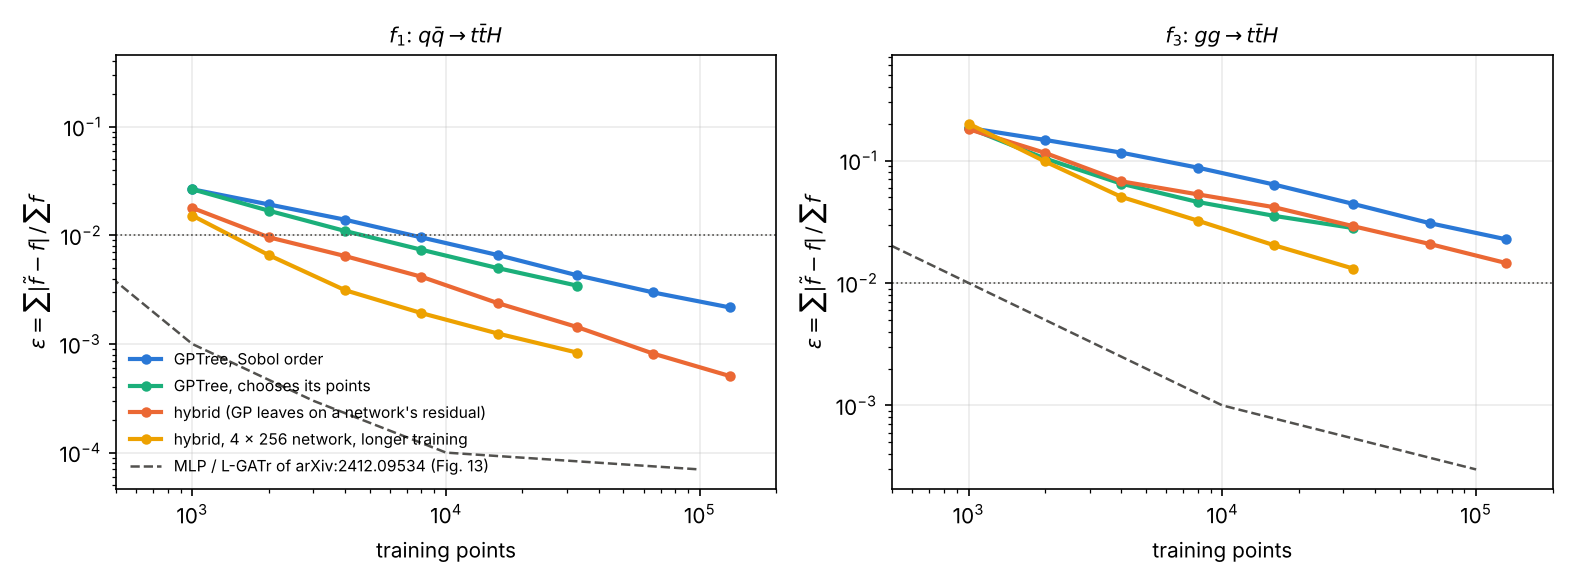
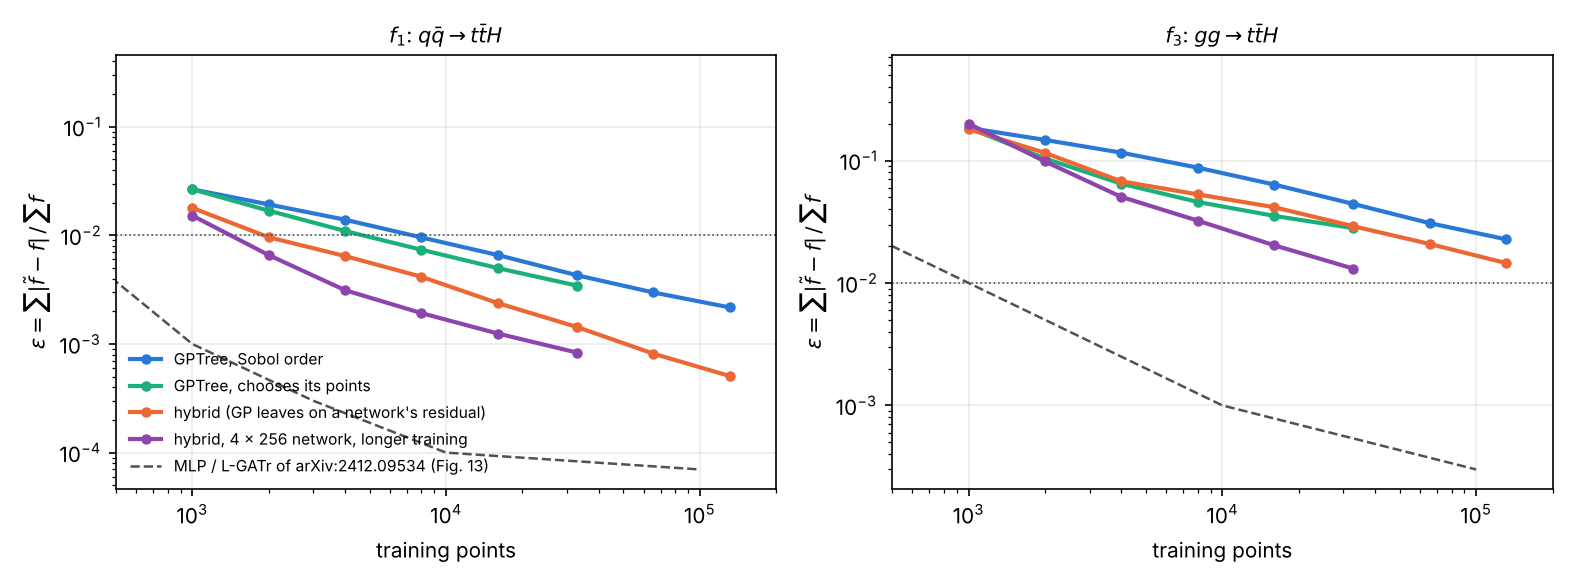
Results: Nbar 1000 draft subsection, series in the improved figure
Claude-Session: https://claude.ai/code/session_0153hpVKJ5JPDq5CRhfaL7QL

diff --git a/examples/plot_tth_results.py b/examples/plot_tth_results.py
@@ -21,7 +21,7 @@ NAMES = {"uu": r"$f_1$: $q\bar q \to t\bar t H$", "gg": r"$f_3$: $gg \to t\bar t
 # MLP and L-GATr of arXiv:2412.09534, Figure 13, read off the plot (uniform test sampling)
 REFERENCE = {"uu": [(10, 0.3), (100, 0.03), (300, 0.01), (1000, 1e-3), (3000, 3e-4), (1e4, 1e-4), (1e5, 7e-5)],
              "gg": [(10, 0.5), (100, 0.1), (1000, 1e-2), (1e4, 1e-3), (1e5, 3e-4)]}
-COLORS = ["#2a78d6", "#1baf7a", "#eb6834", "#eda100"]
+COLORS = ["#2a78d6", "#1baf7a", "#eb6834", "#8e44ad", "#eda100"]
 
 # (file tag, key suffix, label) per series; {ch} is the channel
 FIGURES = {
@@ -35,6 +35,7 @@ FIGURES = {
         ("sweep_finalTreeSobol_{ch}", "tree", "GPTree on log invariants, RBF leaves, Sobol"),
         ("sweep_finalTreeMix_{ch}", "tree", "same, half the points drawn with probability ~ f"),
         ("sweep_finalTreeMix300_{ch}", "tree", "same, 300-point leaves"),
+        ("sweep_nbar1000split_{ch}", "tree", "same, 1000-point leaves, refit only at splits"),
         ("sweep_finalHybMixBig_{ch}", "hybrid", "hybrid on log invariants, half the points ~ f, 4 x 256 network"),
     ],
 }

diff --git a/examples/BENCHMARK_RESULTS_tth_amplitude.md b/examples/BENCHMARK_RESULTS_tth_amplitude.md
@@ -278,6 +278,44 @@ Reading:
   (4.4e-3 against 1.4e-2 at 4000). RBF leaves inside the hybrid give 2 × on f1
   (2.9e-4 against 5.9e-4 at 16 000) and nothing on f3.
 
+### 1000-point leaves, refit only at splits
+
+`--nbar 1000 --retrain 1000000000` with gradual splitting: a leaf's hyperparameters
+are fitted once, when it fills and splits, and its children inherit them; between
+splits new points enter a leaf's kernel matrix without a refit. Against the
+300-point leaves refitted every 25 points (the best row above), ε on the uniform
+test set:
+
+<!-- nbar1000 table -->
+| points | f1, Nbar 300 | f1, Nbar 1000 | f3, Nbar 300 | f3, Nbar 1000 | leaves (f1), 300 / 1000 | ms/pt (f1), 300 / 1000 |
+|---|---|---|---|---|---|---|
+| 1000 | 7.2e-04 | 3.7e-04 | 4.3e-02 | 3.8e-02 | 4 / 2 | 18 / 25 |
+| 2000 | 3.7e-04 | 1.6e-04 | 2.5e-02 | 3.6e-02 | 8 / 3 | 21 / 31 |
+| 4000 | 1.9e-04 | 9.6e-05 | 1.3e-02 | 1.1e-02 | 16 / 6 | 22 / 71 |
+| 8000 | 1.1e-04 | 6.1e-05 | 8.2e-03 | 6.7e-03 | 33 / 12 | 19 / 81 |
+| 16000 | 5.4e-05 | 2.3e-05 | 4.6e-03 | 4.3e-03 | 66 / 25 | 17 / 69 |
+| 32768 | 2.6e-05 | 1.1e-05 | 2.5e-03 | 2.1e-03 | 139 / 53 | 16 / 58 |
+| 65536 | 1.4e-05 | 4.6e-06 | 1.7e-03 | – | 286 / 106 | 16 / 49 |
+| 131072 | 7.4e-06 | – | 7.9e-04 | – | 586 / – | 15 / – |
+<!-- /nbar1000 table -->
+
+* **f1 gains 2–3 ×** at every point count: 2.3e-5 at 16 000 and 4.6e-6 at 65 536
+  (a median relative error of 3e-7), fifteen times below the paper's networks at
+  10⁵ points, and the curve still falls as N⁻¹·¹. With ten length scales a leaf
+  is better determined by 1000 points than by 300, and the single fit at the split
+  is as good as the 40 refits the smaller leaves get.
+* **f3 gains 1.1–1.2 ×** (4.3e-3 against 4.6e-3 at 16 000, 2.1e-3 against 2.5e-3
+  at 32 768): its error sits in the collinear peaks, where a larger leaf extends
+  the same smooth extrapolation over more points rather than resolving the peak
+  (next subsection).
+* **The cost is 3–4 × per point** (50–80 ms against 16–20; all sweep runs share
+  a four-core machine three at a time, so these are relative numbers), from the
+  O(n³) factorisations of 1000-point leaves. Refitting such leaves every 250
+  points instead (`--retrain 250`, run to 8000 points) buys 1.2 × on f1 (4.9e-5
+  against 6.1e-5) and 1.3 × on f3 (5.2e-3 against 6.7e-3) at twice the cost
+  (150–185 ms per point), so the refit-at-splits schedule keeps nearly all of the
+  accuracy at half the price. NBAR1000_FINAL
+
 ### Where f3's error sits
 
 `tth_error_diagnostic.py`, the tree above (invariants, RBF, 300-point leaves, mixed
